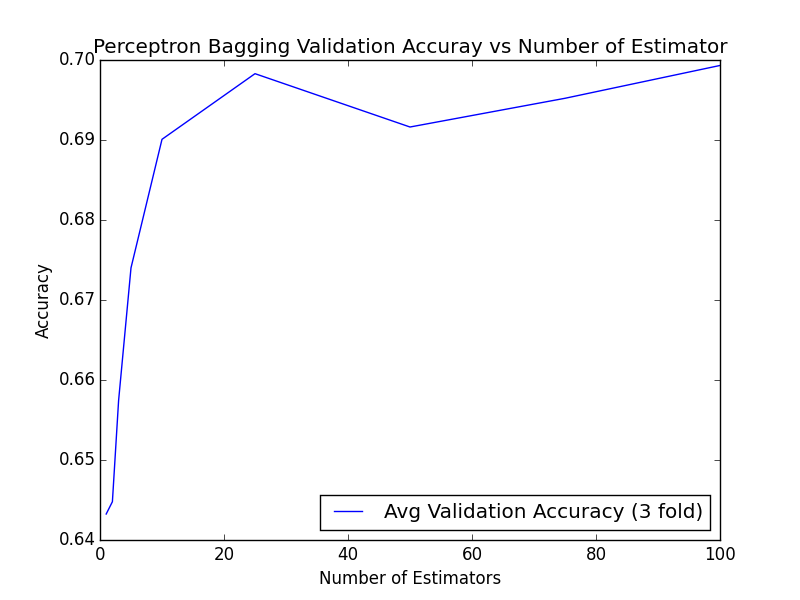
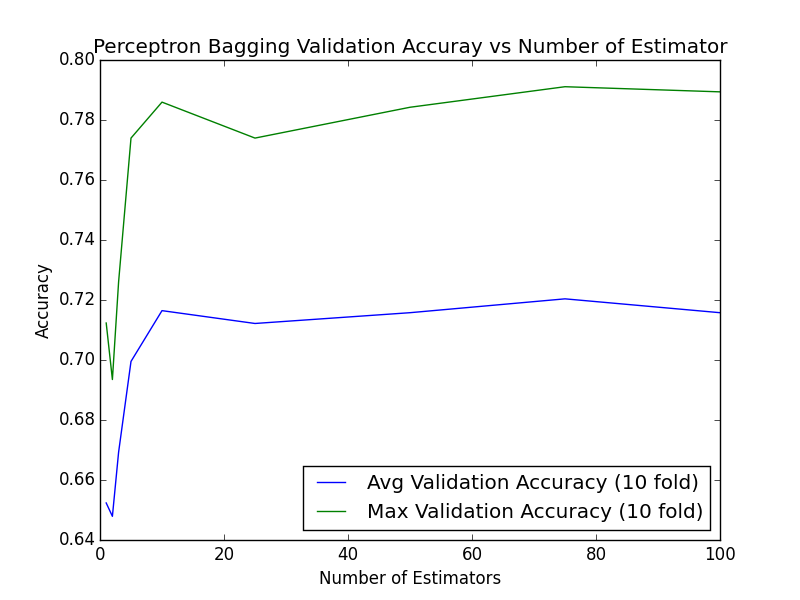
Added plots for without preprocessing, looks similar. Also updated the perceptron bagging with 10 fold accuracy plot.

diff --git a/basicBoosting.py b/basicBoosting.py
@@ -96,7 +96,7 @@ def run_Bagging(num_estimator=10, num_iter=5, include_mirror=False, do_cv=False,
 
     return
 
-def run_Bagging_LabelKFold(num_estimator=10, num_iter=5, include_mirror=False, reload=False):
+def run_Bagging_LabelKFold(num_estimator=10, num_iter=5, include_mirror=False, reload=False, classifier='Perceptron'):
     ZCAMatrix = np.load('ZCAMatrix.npy')
 
     if not reload:
@@ -108,21 +108,30 @@ def run_Bagging_LabelKFold(num_estimator=10, num_iter=5, include_mirror=False, r
     else:
         inputs, targets, identities = reload_data_with_identity_normalized()
 
-    # myClassifier = LinearSVC()
-    # myClassifier = RidgeClassifier()
-    myClassifier = Perceptron(n_iter=num_iter)
+    if classifier == 'Perceptron':
+        myClassifier = Perceptron(n_iter=num_iter)
+    elif classifier == 'DecisionTree':
+        myClassifier = DecisionTreeClassifier()
+    elif classifier == 'LinearSVC':
+        myClassifier = LinearSVC()
+    elif classifier == 'RidgeClassifier':
+        myClassifier = RidgeClassifier()
+    else:
+        print "Classifier not recognized. Aborting..."
+        return
+
     # myClassifier = SGDClassifier(loss='perceptron',n_iter=num_iter)
     # myClassifier = OneVsRestClassifier(LinearSVC(random_state=0))
     clf = BaggingClassifier(base_estimator=myClassifier, n_estimators=num_estimator)
 
-    lkf = LabelKFold(identities, n_folds=3)
+    lkf = LabelKFold(identities, n_folds=10)
 
-    print "Starting cross validation testing on perceptron bagging with %d estimators" % (num_estimator)
+    print "Starting cross validation testing on %s bagging with %d estimators" % (classifier, num_estimator)
     scores = cross_val_score(clf, inputs, targets, cv=lkf)
     print scores
     print scores.mean()
 
-    return scores.mean()
+    return scores
 
 def run_Bagging_testset(num_estimator=100, num_iter=25, include_mirror=True):
     inputs, targets, identities = load_data_with_identity(include_mirror)
@@ -142,30 +151,39 @@ def run_Bagging_testset(num_estimator=100, num_iter=25, include_mirror=True):
     save_output_csv("Perceptron_Bagging_test_predictions.csv", pred)
     return
 
-def run_Perceptron_NumEstimator_Experiment():
-    val_score_list = np.zeros(9)
+def run_Bagging_NumEstimator_Experiment(classifier='Perceptron'):
+    val_avg_score_list = np.zeros(9)
+    val_max_score_list = np.zeros(9)
+    val_scores_list = []
     num_estimator_list = np.array([1,2,3, 5, 10, 25, 50, 75, 100])
 
     for i in xrange(num_estimator_list.shape[0]):
         num_estimator = num_estimator_list[i]
         print "Number of num_estimator: ", num_estimator
-        score = run_Bagging_LabelKFold(num_estimator=num_estimator, num_iter=10, include_mirror=True)
+        score = run_Bagging_LabelKFold(num_estimator=num_estimator, num_iter=10, include_mirror=True, classifier=classifier)
         print "Average Validation score: ", score
-        val_score_list[i] = score
+        val_avg_score_list[i] = score.mean()
+        val_max_score_list[i] = score.max()
+        val_scores_list.append(score)
 
-    print "Val_score_list: "
-    print val_score_list
+    print "Val_avg_score_list: "
+    print val_avg_score_list
+    print "Val_max_score_list: "
+    print val_max_score_list
+    print "All scores:"
+    print val_scores_list
     print "num_estimator_list: "
     print num_estimator_list
 
     # Plot the data
     plt.figure()
-    plt.plot(num_estimator_list, val_score_list, label='Avg Validation Accuracy (3 fold)')
+    plt.plot(num_estimator_list, val_avg_score_list, label='Avg Validation Accuracy (10 fold)')
+    plt.plot(num_estimator_list, val_max_score_list, label='Max Validation Accuracy (10 fold)')
     plt.legend(loc=4)
-    plt.title('Perceptron Bagging Validation Accuray vs Number of Estimator')
+    plt.title('%s Bagging Validation Accuray vs Number of Estimator' % (classifier))
     plt.xlabel('Number of Estimators')
     plt.ylabel('Accuracy')
-    plt.savefig('Perceptron_Bagging_ValAcc_vs_NumEstimator')
+    plt.savefig('%s_Bagging_ValAcc_vs_NumEstimator.png' % classifier)
     plt.show()
 
     return
@@ -260,6 +278,5 @@ if __name__ == '__main__':
 
     # pca_SVM()
 
-    run_Perceptron_NumEstimator_Experiment()
-
+    run_Bagging_NumEstimator_Experiment(classifier='Perceptron')
 

diff --git a/utils.py b/utils.py
@@ -747,6 +747,7 @@ def plot_kfold_validation_accuracy(data='fold_val_acc.npy'):
         i += 1
 
     print mean_acc_vec
+    print max_acc_vec
 
     plt.figure
     plt.plot(mean_acc_vec[:,0], mean_acc_vec[:,1], label='Avg Validation accuracy')
